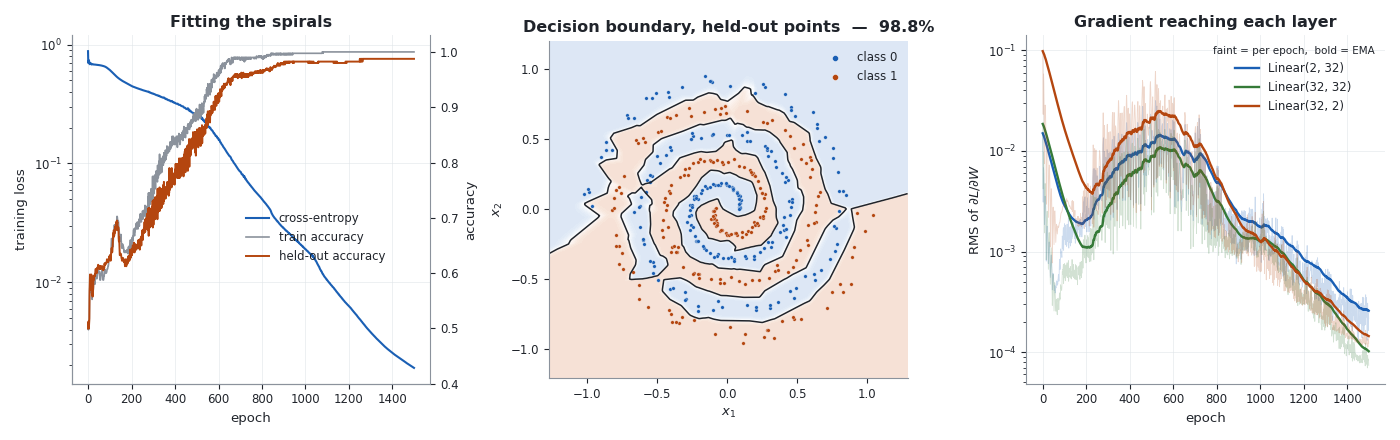
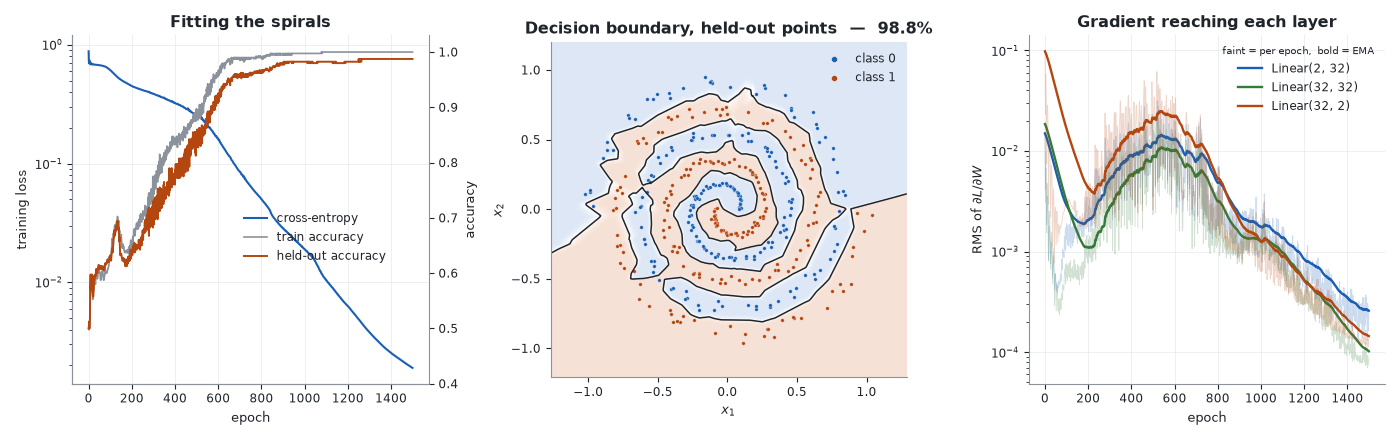
docs(readme): plainer prose, verified numbers, working install line
Every command, snippet, pasted output, link and image in the README was
executed against a clean clone. Fixes found:

- install needed the plot extra: with `.[dev]` alone matplotlib is absent
  and test_figures_regenerate skips, so the run is 123 tests, not 124
- pytest wall time is ~5 s, not ~3 s (124 tests, timed repeatedly)
- "about 420 lines" -> about 440 (436 code lines across tinydiff/*.py)
- per-node backward overhead measured at ~3 us, not 2.6 us
  (283 ms / 100k-op chain, best of five with the GC paused)

Verified unchanged: the 62-pair correctness ledger and its 4.2e-09 worst
and 2.3e-10 median, the 995-op recursion cliff, dy/dx to 1.1e-11 at depth
100k, validate.py's 16/16/66/14 row counts and 1.11e-16 / 2.09e-04 /
1.61e-16, the 3e-11 finite-difference floor, and every code snippet's
pasted output. Figures regenerated from a full make_figures.py run.

Prose: swapped aphorisms for statements of fact and cut ornamental
clauses, keeping every number and technical specific.

diff --git a/README.md b/README.md
@@ -2,15 +2,15 @@
 
 [![ci](https://github.com/superkush06/tinydiff/actions/workflows/ci.yml/badge.svg)](https://github.com/superkush06/tinydiff/actions/workflows/ci.yml)
 
-Reverse-mode automatic differentiation, written out in full.
+Reverse-mode automatic differentiation in about 440 lines of NumPy.
 
-Reverse mode is the trick that makes training affordable: run the program once,
-walk the graph backwards once, and you have *every* partial derivative — all
-`n` of them, for roughly the price of the forward pass. tinydiff is that trick
-in about 420 lines of NumPy, including the parts that micrograd-style clones
-usually wave through: broadcasting, the whole of `np.matmul`'s shape space, a
-graph walk that survives a hundred thousand operations, and a `backward()` that
-would rather raise than hand back a number it cannot stand behind.
+Run the forward pass once, walk the graph backwards once, and you have every
+partial derivative — all `n` of them — for roughly the cost of the forward
+pass. That is what makes training affordable. tinydiff implements it, including
+the parts micrograd-style clones skip: broadcasting, the full shape space of
+`np.matmul`, a graph walk that handles 100,000 operations without recursing,
+and a `backward()` that raises on a reused graph or a mis-shaped seed instead
+of returning a plausible wrong number.
 
 Python 3.11+, NumPy, and nothing else at runtime.
 
@@ -20,36 +20,38 @@ Everything above is measured by `examples/make_figures.py`, which calls this
 library and plots what comes back. Reading it left to right:
 
 **1 — Cost.** The rust line is the full gradient by central differences: `2n`
-forward passes, climbing with `n` for ever. The blue line is one backward
-pass, and the grey dashed line is one forward pass — blue sits a small
-constant above grey and *stays* there as `n` grows. At the right-hand edge
-the two methods are four orders of magnitude apart and the gap is still
-widening. That constant is the entire reason reverse mode exists. (The exact
-ratio is a wall-clock measurement, so the script prints it and the panel
-annotates it; it is not repeated here, where it could only go stale.)
+forward passes, growing with `n`. The blue line is one backward pass, the grey
+dashed line one forward pass. Blue sits a small constant above grey and stays
+there as `n` grows. At the right-hand edge (`n = 10,240`) the two methods are
+four orders of magnitude apart and the gap is still widening. That constant is
+why reverse mode exists. The exact ratio is a wall-clock measurement, so the
+script prints it and the panel annotates it; repeating it here would only let
+it go stale.
 
 **2 — Correctness.** Every public op crossed with five shape regimes, scored by
 the worst relative disagreement with a central-difference estimate: 62
-(op, shape) pairs, worst case `4.2e-09`. The darker cells are not autodiff
-error — they are the *reference method's* error, which at `eps = 1e-6` is
-`2.3e-10` at the median cell and `4.2e-09` at the worst of the 62. Dots mark
-combinations that do not exist; a unary op has
-nothing to broadcast against.
+(op, shape) pairs, worst case `4.2e-09`. The darker cells are the reference
+method's error, not autodiff's: at `eps = 1e-6` central differences are off by
+`2.3e-10` at the median cell and `4.2e-09` at the worst. Dots mark combinations
+that do not exist — a unary op has nothing to broadcast against.
 
 **3 — Depth.** Backward time is linear in graph depth across four decades, and
 a 100,000-op chain returns `dy/dx` correct to `1.1e-11`. The vertical line is
-measured rather than quoted: the textbook recursive graph walk raises
-`RecursionError` at 995 ops on this interpreter. tinydiff's traversal uses an
-explicit stack, so depth is a memory question, not a stack-frame question.
+measured, not quoted: the textbook recursive graph walk raises `RecursionError`
+at 995 ops on this interpreter. tinydiff's traversal uses an explicit stack, so
+depth costs memory, not stack frames.
 
 ## Install
 
 ```bash
 git clone https://github.com/superkush06/tinydiff.git
 cd tinydiff
-pip install -e ".[dev]"
-pytest          # 124 tests, ~3 seconds
+pip install -e ".[dev,plot]"
+pytest          # 124 tests, about 5 seconds
 ```
+
+`dev` pulls in pytest and ruff. `plot` pulls in matplotlib, which
+`examples/make_figures.py` needs; without it one test skips and you get 123.
 
 ## Thirty seconds
 
@@ -76,8 +78,8 @@ W.grad  [[-3.63000e-04  3.27133e-01]
  [ 7.26000e-04 -6.54265e-01]]
 ```
 
-Note what just happened without comment: `x` is 1-D, `W` is 2-D. That is a
-shape pair `np.matmul` accepts, so tinydiff differentiates it.
+Note the shapes: `x` is 1-D, `W` is 2-D. `np.matmul` accepts that pair, so
+tinydiff differentiates it.
 
 ## What is in the box
 
@@ -93,8 +95,8 @@ shape pair `np.matmul` accepts, so tinydiff differentiates it.
 ## Matmul, across the shape space it advertises
 
 `a @ b` differentiates for every operand rank `np.matmul` accepts — vectors,
-matrices, stacked operands, broadcast batch dimensions — and not merely for the
-2-D × 2-D case a test suite reaches for first:
+matrices, stacked operands, broadcast batch dimensions — not just the 2-D × 2-D
+case:
 
 ```python
 import numpy as np
@@ -124,10 +126,9 @@ axes; broadcast batch dimensions are summed out on the way back. A randomised
 (`tests/test_matmul.py`), and the derivation is in
 [`docs/theory.md`](docs/theory.md).
 
-## Gradients you can bet a training run on
+## What `backward()` refuses to do
 
-Three rules, each of which exists because the alternative is a wrong number
-rather than an exception:
+Three rules. Each one turns a silently wrong number into an exception:
 
 ```python
 import tinydiff as td
@@ -163,8 +164,8 @@ bad seed        backward() seed shape () does not match output shape (2,)
    clears interior gradients first, so leaves accumulate to 24 rather than
    compounding stale intermediates into 48.
 2. An explicit seed must match the output's shape. A scalar seed on a vector
-   output would broadcast happily and hand back gradients for a loss you never
-   wrote.
+   output would broadcast without complaint and return gradients for a loss you
+   never wrote.
 3. `Linear` layers built without an explicit `rng` draw from one shared
    process-wide generator, so two same-shaped layers never start life
    byte-identical. Pass `rng=np.random.default_rng(seed)` when you want a run
@@ -198,16 +199,16 @@ False
 ```
 
 The second case is the point. A function that never touches an input produces
-no gradient for it, and a checker that quietly skips such inputs will certify
-an op that forgot to write into one of its children — which is exactly the
-shape of the worst bug an autodiff engine can ship.
+no gradient for it. A checker that silently skips those inputs will pass an op
+that forgot to write into one of its children — the worst bug an autodiff
+engine can ship.
 
-## Checked against arithmetic done somewhere else
+## Checked against sources outside this repo
 
-A test suite proves a library agrees with itself. `examples/validate.py`
-compares it to things that are not it: derivatives worked out on paper,
-published results for canonical functions, and an estimator that shares no
-code with the engine.
+A test suite only proves a library agrees with itself. `examples/validate.py`
+compares it against three outside references: derivatives worked out on paper,
+published results for canonical functions, and a finite-difference estimator
+that shares no code with the engine.
 
 ```bash
 PYTHONPATH=. python3 examples/validate.py   # exits non-zero if any row fails
@@ -225,30 +226,29 @@ Two rows worth lifting out. The Rosenbrock gradient at the conventional
 starting point $(-1.2, 1)$ is $(-215.6, -88.0)$; tinydiff returns
 `(-215.6000000000, -88.0000000000)`, off by `1.61e-16`. And Euler's
 homogeneous function theorem — $\langle x, \nabla f(x)\rangle = k f(x)$ —
-holds to one ulp for degrees 1, 2 and 3, which it can only do if every VJP
-on the path *and* the fan-out accumulation are right, and which needs no
-reference implementation at all.
+holds to one ulp for degrees 1, 2 and 3. It needs no reference implementation,
+and it can only hold if every VJP on the path and the fan-out accumulation are
+correct.
 
 ![naive versus max-shifted, and which method is the noisy one](docs/validation.png)
 
 Panel A: the naive `log(sum(exp(z)))` and the max-shifted form are
-bit-identical until `c = 710`, where one of them stops returning a number.
-Panel B holds the row that should worry you: at a logit gap of 745 the naive
-cross-entropy does not fail, it returns `744.4401`, half a nat wrong,
-because the probability it took the log of had gone subnormal. `inf` gets
-noticed; a plausible number does not. Panel C is the honest note underneath
-the whole exercise: the finite-difference reference bottoms out at
-$3\times10^{-11}$, which is why no gradient-check tolerance below about
-`1e-9` means anything, and why the closed forms in section 2 are the checks
-that actually pin the last digits.
+bit-identical until `c = 710`, where the naive one starts returning `inf`.
+Panel B is the important one: at a logit gap of 745 the naive cross-entropy
+does not fail, it returns `744.4401`, half a nat wrong, because the
+probability it took the log of had gone subnormal. `inf` gets noticed; a
+plausible number does not. Panel C sets the limit on the whole exercise: the
+finite-difference reference bottoms out at $3\times10^{-11}$, so no
+gradient-check tolerance below about `1e-9` means anything, and the closed
+forms in section 2 are what pin the last digits.
 
 The full ledger — claim, our value, reference value, source — is in
 [`docs/validation.md`](docs/validation.md), including a section on the eight
 places tinydiff does *not* match its reference, and why each one is there.
 
 `tests/test_properties.py` covers the other half: 200 randomised draws per
-invariant for the statements that must hold on *every* input rather than on
-a fixture — the directional derivative, linearity of the VJP, Euler
+invariant, for statements that must hold on every input rather than on a
+fixture — the directional derivative, linearity of the VJP, Euler
 homogeneity, fan-out accumulation, broadcast conservation, the matmul
 adjoint identity at every operand rank, traversal order, softmax rows
 summing to zero, convexity as a monotone gradient, and Adam's scale-free
@@ -275,10 +275,10 @@ print(f"{k} ops deep, dy/dx = {float(x.grad):.12f}")
 100000 ops deep, dy/dx = 1.999999999979
 ```
 
-The chain is built so the answer is exactly 2 at any depth, which turns the
-last few digits into a running total of floating-point drift rather than a
-mystery. The whole backward pass is a few hundred milliseconds of pure
-Python — a couple of microseconds per node, and panel 3 has the measurement.
+The chain is built so the answer is exactly 2 at any depth, so the last few
+digits are a running total of floating-point drift. The backward pass takes
+about 300 ms of pure Python, roughly 3 µs per node; panel 3 has the
+measurement.
 
 ## Examples
 
@@ -288,7 +288,7 @@ PYTHONPATH=. python3 examples/fit_sine.py       # regression, two hidden layers
 PYTHONPATH=. python3 examples/spiral.py         # two spirals, with a held-out set
 PYTHONPATH=. python3 examples/validate.py       # the ledger behind docs/validation.md
 PYTHONPATH=. python3 examples/transformer_block.py  # autodiff as a check on hand-written backprop
-PYTHONPATH=. python3 examples/make_figures.py   # regenerates docs/*.png (needs matplotlib)
+PYTHONPATH=. python3 examples/make_figures.py   # regenerates docs/*.png (needs the plot extra)
 ```
 
 `xor.py` — four points, no linear separator, one hidden layer of four `tanh`
@@ -323,20 +323,19 @@ epoch 1499: loss=0.0019  train=100.0%  test=98.8%
 
 ![two spirals: training, boundary, and per-layer gradients](docs/spiral_training.png)
 
-Three readings. Held-out accuracy tracks training accuracy the whole way down —
-100% train against 98.8% held out is a fit, not a memorisation. The middle
-panel draws the *held-out* points on a region learned from the training draw;
-the boundary spirals because it has to, and the mistakes are out at the rim
-where the arms crowd. The gradient panel is the one worth staring at: all three
-layers carry gradients of the same order throughout, so nothing vanishes on the
-way back through two ReLUs, and the three-decade collapse after epoch 800 is
-the network arriving, not dying.
+Three readings. Held-out accuracy tracks training accuracy the whole way down:
+100% train against 98.8% held out is a fit, not memorisation. The middle panel
+draws the *held-out* points on a region learned from the training draw; the
+mistakes are out at the rim, where the arms crowd. In the gradient panel all
+three layers carry gradients of the same order throughout, so nothing vanishes
+on the way back through two ReLUs. The three-decade drop after epoch 800 is
+convergence, not a vanishing gradient — the loss falls over the same epochs,
+from 0.064 to 0.002.
 
 `transformer_block.py` — one transformer feed-forward sublayer (LayerNorm →
 projection → GELU → projection → residual → unembedding → cross-entropy),
-built twice on the same parameters: once as hand-derived NumPy, the way you
-write it when you are not using an autodiff engine, and once as tinydiff
-expressions. Every gradient is compared.
+built twice on the same parameters: once with a hand-derived NumPy backward
+pass, once as tinydiff expressions. Every gradient is compared.
 
 ```
 forward loss   hand-written 3.828826741946   tinydiff 3.828826741946   gap 0.0e+00
@@ -349,9 +348,9 @@ correct hand-derived backward pass
   -> worst disagreement 4.8e-16; the two derivations are the same function.
 ```
 
-Then it injects two mistakes of the kind that actually ship — a bias
-gradient not summed over the token axis, and a LayerNorm backward that
-treats `1/sigma` as a constant — and shows what they cost:
+Then it injects two realistic bugs — a bias gradient not summed over the
+token axis, and a LayerNorm backward that treats `1/sigma` as a constant —
+and shows what they cost:
 
 ```
 injected bug: b1 gradient not summed over the token axis
@@ -363,12 +362,12 @@ injected bug: LayerNorm backward missing its two mean terms
   X            5.12e-01   0.92334552  <-- wrong
 ```
 
-Neither announces itself. The first keeps a cosine of `0.52` with the true
-gradient — still downhill, so the training curve looks fine. The second
-does not touch this block's own parameters at all: it corrupts `dL/dX`, the
-gradient the block hands to the layer below, where it becomes somebody
-else's slow convergence. Comparing against an engine finds both on the
-first backward pass, before any training has happened.
+Neither bug shows up in the loss curve. The first keeps a cosine of `0.52`
+with the true gradient, so the step is still downhill and training looks
+fine. The second leaves this block's own parameters untouched and corrupts
+`dL/dX`, the gradient the block hands to the layer below, where it becomes
+somebody else's slow convergence. Comparing against an engine finds both on
+the first backward pass, before any training has happened.
 
 ## Theory
 
@@ -382,7 +381,7 @@ repository, with the disagreements listed rather than smoothed over.
 
 ## Limitations
 
-Stated plainly, because they bound what you can build on this:
+These bound what you can build on this:
 
 - **No shape ops.** There is no `reshape`, `transpose`, indexing, `concat`, or
   `max`. Dense stacks are expressible; convolutions and attention are not.
@@ -391,9 +390,9 @@ Stated plainly, because they bound what you can build on this:
   means rewriting every op to compose `Tensor`s — a design change, not a flag.
 - **float64 only**, on CPU, single-threaded. There is no dtype policy and no
   device concept.
-- **Per-op overhead dominates for small tensors.** About 2.6 µs of Python per
-  node makes this a teaching engine and a correctness reference, not a fast
-  one. Panel 1 is a claim about asymptotics, not about beating a BLAS.
+- **Per-op overhead dominates for small tensors.** About 3 µs of Python per
+  node. This is a teaching engine and a correctness reference, not a fast one;
+  panel 1 is a claim about asymptotics, not about beating BLAS.
 - **The graph retains every intermediate** until the root tensor is dropped. A
   100,000-op chain holds 100,000 live `Tensor`s.
 
@@ -402,15 +401,15 @@ Stated plainly, because they bound what you can build on this:
 `transformer-from-scratch` is a decoder-only GPT written with no autodiff at
 all: embeddings, causal attention, LayerNorm, GELU and cross-entropy, each
 with a backward pass derived on paper and written out as NumPy. It is this
-engine, reimplemented by hand and specialised to one architecture. That is a
-defensible constraint right up to the moment a hand-derived VJP is wrong, so
-`examples/transformer_block.py` above expresses one of its sublayers both
-ways and diffs the gradients. `rl-gym` is the other consumer of the same
-mathematics — REINFORCE and A2C are a policy gradient and nothing else.
+engine, reimplemented by hand and specialised to one architecture. That works
+until a hand-derived VJP is wrong, so `examples/transformer_block.py` above
+expresses one of its sublayers both ways and diffs the gradients. `rl-gym` is
+the other consumer of the same mathematics — REINFORCE and A2C are a policy
+gradient and nothing else.
 
-The repos are standalone on purpose: nothing here imports either of them,
-and neither imports this. What travels between them is the derivation, and
-the point of this one is to be the copy that is checkable.
+The repos are standalone on purpose: nothing here imports either of them, and
+neither imports this. What they share is the derivation. This is the copy you
+can check.
 
 ## License
 
